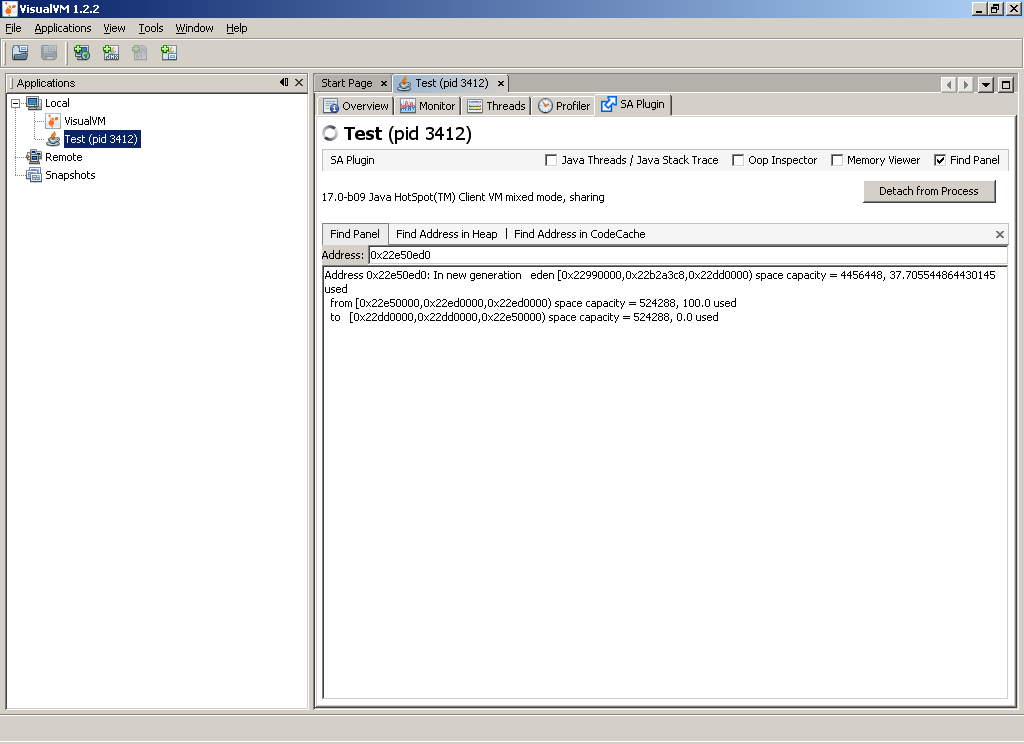
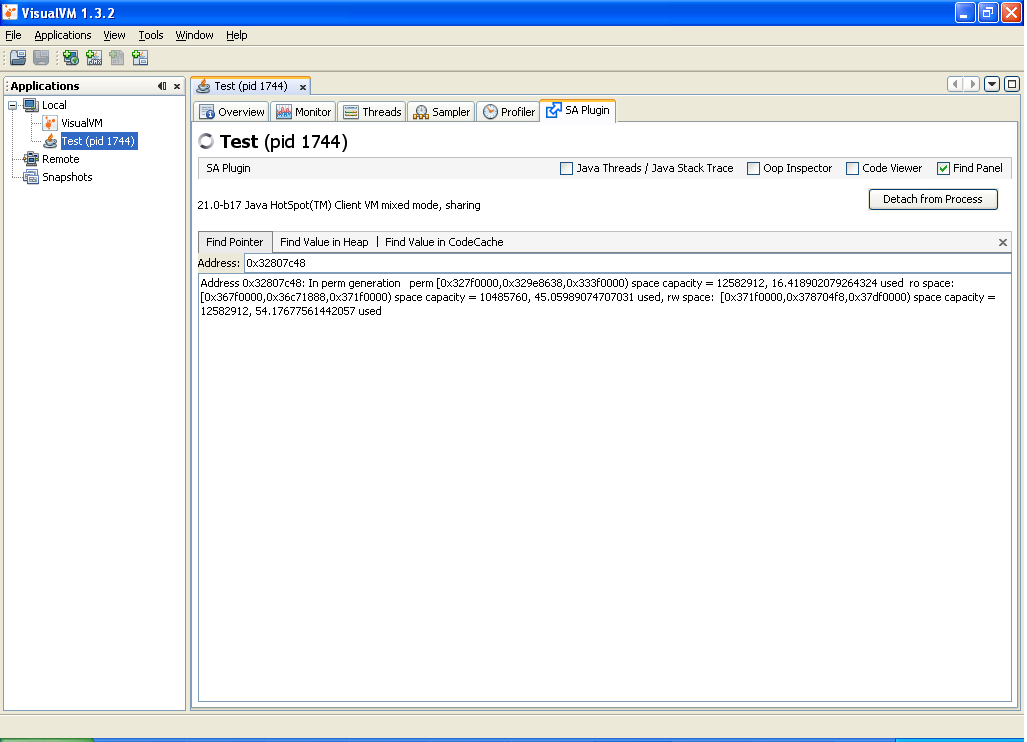
Updated SAPlugin documentation

Changed region(s): [[0.0, 0.0, 1.0, 1.0]]

diff --git a/www/saplugin.html b/www/saplugin.html
@@ -46,41 +46,37 @@
             
             <h1>SA-Plugin for VisualVM</h1>
 <p>
-SA Plugin makes Serviceability Agent's features and utilities available in VisualVM. Serviceability Agent is an out-of-process snapshot debugger for Hotspot Java Virtual Machine. It can be used to explore Java Objects and Hotspot Data Structures in running processes as well as core files. More details here: 
+SA-Plugin makes key features and utilities of Serviceability Agent available in VisualVM. Serviceability Agent is an out-of-process snapshot debugger for Hotspot Java Virtual Machine. It can be used to explore Java Objects and Hotspot Data Structures in running processes as well as core files. More details here:
 <a href=http://www.usenix.org/events/jvm01/full_papers/russell/russell_html/index.html> http://www.usenix.org/events/jvm01/full_papers/russell/russell_html/index.html</a> </p>
 
 <p> SA-Plugin brings those powerful features of Serviceability Agent to VisualVM - All-in-One Java Troubleshooting Tool. This Plugin makes SA utilities available in the following four panels in VisualVM:</p>
 <p>
 <b>Java Threads / Java Stack Trace: </b>
 <ul>
-<li>
-It shows all the Java Threads in the process. </li>
-<li> Double click on any thread or clicking on the 'Open Inspector' icon on Java Threads Panel shows internal details of the thread object in another 'Oop Inspector' panel. </li>
-<li> Clicking on the 'Show Stack Trace' icon on Java Threads Panel shows thread's stack trace. </li>
+<li>This panel shows all the Java Threads in the process. </li>
+<li> Double-click on any thread or clicking the 'Open Inspector' icon on Java Threads Panel brings up 'Oop Inspector' panel that shows internal details of the thread object. </li>
+<li> Clicking on the 'Show Stack Trace' icon on Java Threads Panel shows the stack trace of the selected thread. </li>
 </ul>
 </p>
 
 <p>
 <b>Oop Inspector: </b>
 <ul>
-<li>All the java objects in hotspot VM are represented as Oops - 'Ordinary Object Pointer'.  The 'Oop Inspector' panel shows details of Oops. The ability to see all the internal fields of any java object provides a great debugging help. </li>
-<li>This also provides the ability to 'compute the liveness' of any Oop in the Java Heap.</li>
+<li>All the java objects in Hotspot VM are represented as Oops - 'Ordinary Object Pointer'.  The 'Oop Inspector' panel shows details of Oops. The ability to see all the internal fields of any java object provides a great debugging help. </li>
 </ul>
 </p>
 
 <p>
-<b>Memory Viewer: </b>
+<b>Code Viewer: </b>
 <ul>
-<li>Shows values at any address in the Java Heap</li>
+<li>Shows method/klass object if the given address is methodOop/klassOop, and compiled code if the given address is PC in compiled code.</li>
 </ul>
 </p>
 
 <p>
 <b>Find Panel: </b>
 <ul>
-<li>Find Address in Heap: Shows where all the given address is assessed in Java Heap</li>
-<li>Find Address in CodeCache :  Shows where all the given address is assessed in Compiler's codecache.</li>
-<li>Find Pointer: Find where a pointer lies in Java Heap. e.g 
+    <li>Find Pointer: Shows where a pointer lies in process memory e.g
 </p>
 <p><i><center>
 Address 0x10100088: In new generation   eden [0x10010000,0x1001e950,0x100f0000) space capacity = 917504, 6.509835379464286 used
@@ -88,12 +84,14 @@ Address 0x10100088: In new generation   eden [0x10010000,0x1001e950,0x100f0000) 
   to   [0x100f0000,0x100f0000,0x10100000) space capacity = 65536, 0.0 used
 </p></i></center>
 </li>
+<li>Find Value in Heap: Shows all the locations where the given address is referenced in Java Heap</li>
+<li>Find Value in CodeCache :  Shows all the locations where the given address is referenced in compiler codecache.</li>
 </ul>
 
 <p>
 <b> How to install SAPlugin: </b>
 <ul>
-<li> In VisualVM main menu choose Tools | Plugins, Plugins dialog is opened. </li>
+<li> In VisualVM main menu, choose Tools | Plugins, Plugins dialog is opened. </li>
 <li> Switch to Available Plugins tab and select SAPlugin. </li>
 <li> Click the Install button, review and accept SAPlugin license and wait for the plugin to be downloaded and installed. </li>
 </ul>
@@ -107,21 +105,21 @@ e.g. on Solaris-Sparc sa-jdi.jar and libsaproc.so should be present in lib/ and 
 folders respectively. 
 </li>
 <li> Double click the process in VisualVM. With SAPlugin installed, 'SA Plugin' tab will also appear in VisualVM.</li>
-<li> In 'SA Plugin' tab, click on 'Attach to Process'. This will attach serviceability agent to the process and will bring up 'Java Threads Panel' and also other three panels in hidden mode. Please note that this might take few seconds.<br>
+<li> In 'SA Plugin' tab, click on 'Attach to Process'. This will attach Serviceability Agent to the process and will bring up 'Java Threads Panel' and also other three panels in hidden mode. Please note that this might take few seconds.<br></li>
 <img src="images/saplugin_1.png"/>
-</li>
-<li> Other tabs for the attached process will not be usable as long as SA Plugin is attached to the process, so one needs to detach SA Plugin from the process before using it's other tabs in VisualVM. When SA Plugin gets attached to the process, a message box is shown with this information.<br>
+
+<li> Other tabs for the attached process will not be usable as long as SAPlugin is attached to the process, so one needs to detach SA Plugin from the process before using its other tabs in VisualVM. When SA Plugin gets attached to the process, a message box is shown with this information.<br>
 <img src="images/saplugin_2.png"/>
 </li>
-<li> Now, one can look at Java Threads, their stack traces, look at any Oop, search any address in heap and look at disassembly at any address etc. </li>
+<li> Now, one can look at Java Threads, their stack traces, look at any Oop, search any address in heap and look at the compiled code at any address etc. </li>
 <li> Click on 'Detach from Process' to detach it from the process. </li>
-</li> SAPlugin also works with core dumps in VisualVM.
+<li>SAPlugin also works with core dumps in VisualVM.</li>
 </ul>
 </p>
 
 <p>
 <b>JDK versions supported</b> <br>
-- 1.7.0-b64 and later on all platforms.   <br>
+- 1.7.0 on all platforms.   <br>
 - 6u17 and later on Solaris and Linux (because SA binaries are not shipped with jdk6 on Windows)
 </p>
 <br>
@@ -134,10 +132,10 @@ folders respectively.
 <b>Oop Inspector</b><br>
 <img src="images/saplugin_5.png" />
 <br><br>
-<b>Memory Viewer</b><br>
+<b>Code Viewer</b><br>
 <img src="images/saplugin_6.png" />
 <br><br>
-<b>Find Address Panel</b><br>
+<b>Find Panel</b><br>
 <img src="images/saplugin_7.png" />
 
            
